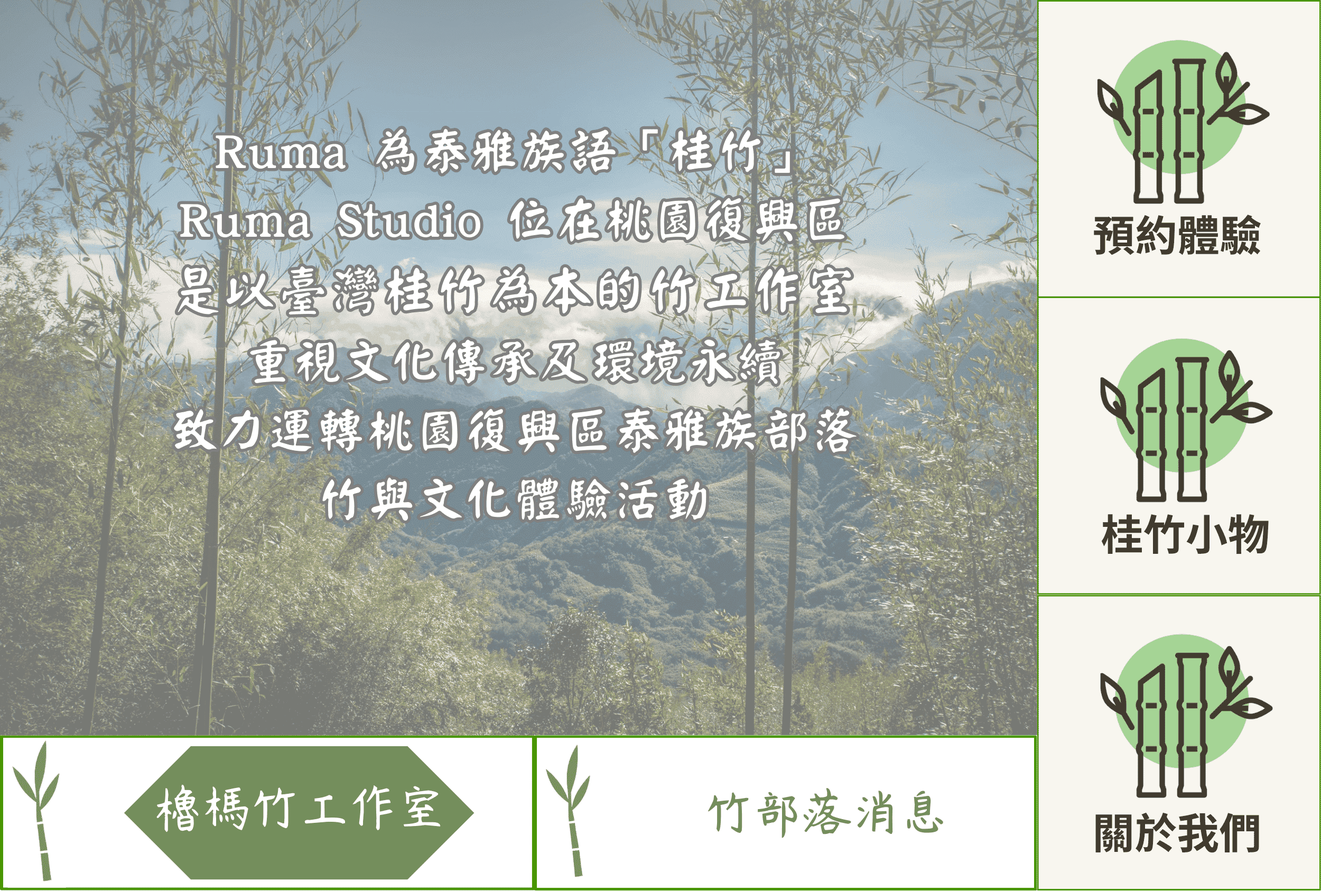
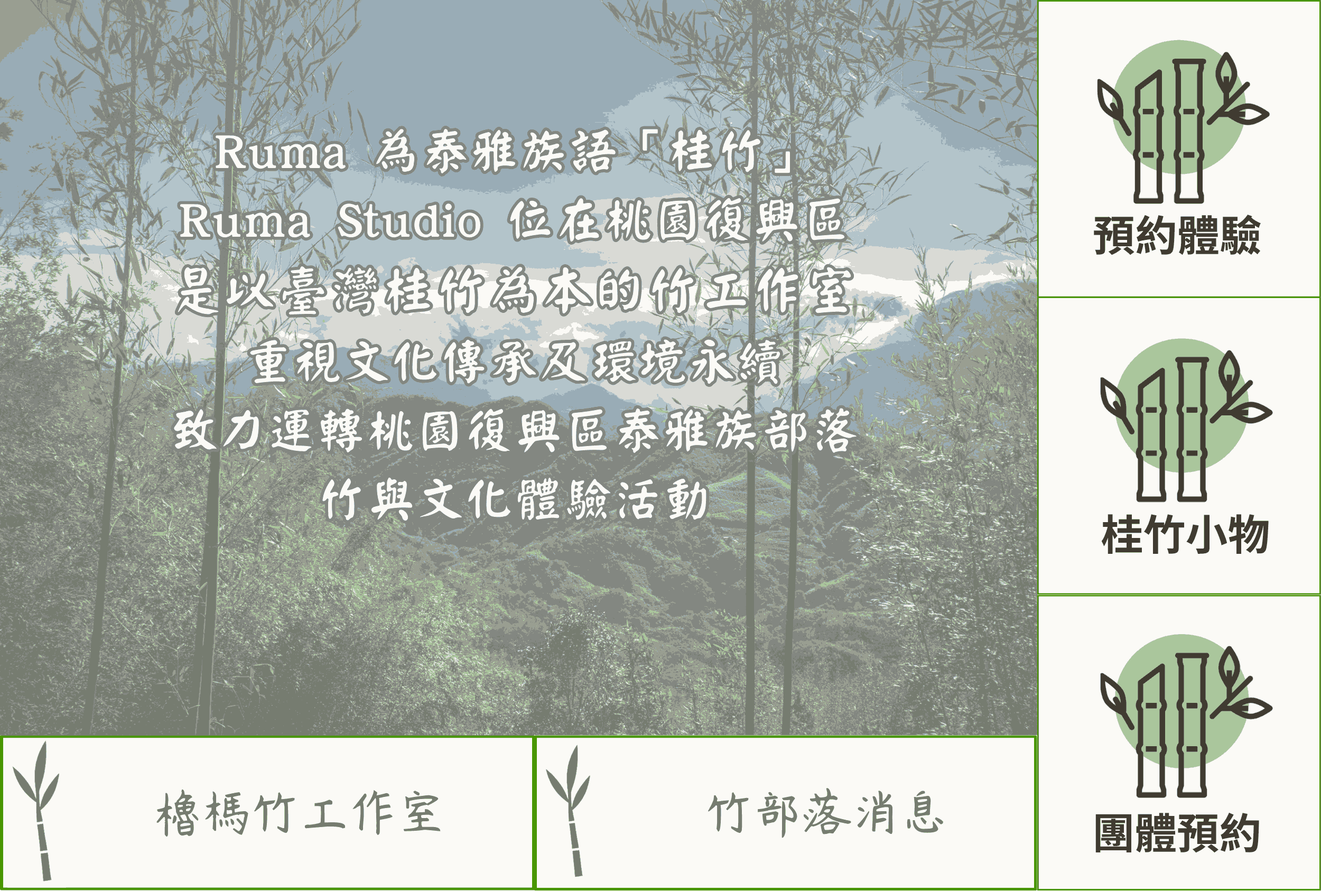
定位五個按鈕

diff --git a/scripts/richmenu/ruma/layout.js b/scripts/richmenu/ruma/layout.js
@@ -5,79 +5,80 @@ module.exports = function () {
   const TENANT = 'ruma';
   const BASE   = `public/richmenu/${TENANT}`;
 
-  // 固定規格
-  const TAB_W = 952;     // 左/中兩塊 tab 寬
-  const TAB_H = 294;     // 底部高度
-  const BTN_W = 537;     // 最右側按鈕欄寬
-  const SP    = 32;      // 右邊留白
-  const SAFE_GAP = 4;    // ← 新增：中間區與按鈕欄之間留縫避免邊界搶點
+  const SP = 32;                 // 上下留白
+  const BTN_W = 537;             // 按鈕寬
+  const RIGHT_X = SIZE.width - SP - BTN_W;
 
-  // 座標（算定值）
-  const rowY      = SIZE.height - SP - TAB_H;              // 1360
-  const btnX      = SIZE.width  - SP - BTN_W;              // 1931（不變）
-  const xRightTab = btnX - SAFE_GAP - TAB_W;               // 979 - SAFE_GAP
-  const xLeftTab  = xRightTab - SAFE_GAP - TAB_W;          // 27 - SAFE_GAP（實際會是 23）
+  const TOTAL_HEIGHT = SIZE.height - SP * 2;  // 可用高度
+  const BTN_H = Math.floor(TOTAL_HEIGHT / 3);
 
-  // 右側三顆（確定數字）
-  const B1 = { x: btnX, y: rowY,        width: BTN_W, height: 87  };
-  const B2 = { x: btnX, y: rowY + 103,  width: BTN_W, height: 87  };
-  const B3 = { x: btnX, y: rowY + 206,  width: BTN_W, height: 88  };
+  const B1 = { x: RIGHT_X, y: SP,           width: BTN_W, height: BTN_H };
+  const B2 = { x: RIGHT_X, y: SP + BTN_H,   width: BTN_W, height: BTN_H };
+  const B3 = { x: RIGHT_X, y: SP + BTN_H*2, width: BTN_W, height: TOTAL_HEIGHT - BTN_H*2 };
+
+   // 左上方按鈕，水平排列，高度 = B3.height / 2
+  const leftWidth = RIGHT_X - SP;
+  const leftHeight = Math.floor(B3.height / 2);
+  const B4 = { x: SP, y: B3.y + B3.height - leftHeight, width: Math.floor(leftWidth / 2), height: leftHeight };
+  const B5 = { x: SP + Math.floor(leftWidth / 2), y: B3.y + B3.height - leftHeight, width: Math.ceil(leftWidth / 2), height: leftHeight };
+
 
   // ========== primary（櫓榪工作室）==========
   const primary = () => {
     const areas = [
       // 左下（櫓榪工作室）→ 切到 primary（自頁；可改成 no-op 或直接不放）
-      {
-        bounds: { x: xLeftTab, y: rowY, width: TAB_W, height: TAB_H },
-        action: { type: 'richmenuswitch', richMenuAliasId: 'ruma_primary', data: 'switch=primary' },
-      },
+      // {
+      //   bounds: { x: xLeftTab, y: rowY, width: TAB_W, height: TAB_H },
+      //   action: { type: 'richmenuswitch', richMenuAliasId: 'ruma_primary', data: 'switch=primary' },
+      // },
       // 中下（竹部落消息）→ 切到 second
-      {
-        bounds: { x: xRightTab, y: rowY, width: TAB_W, height: TAB_H },
-        action: { type: 'richmenuswitch', richMenuAliasId: 'ruma_second', data: 'switch=second' },
-      },
+      // {
+      //   bounds: { x: xRightTab, y: rowY, width: TAB_W, height: TAB_H },
+      //   action: { type: 'richmenuswitch', richMenuAliasId: 'ruma_second', data: 'switch=second' },
+      // },
       // 右側三顆
       // { bounds: B1, action: { type: 'postback', data: 'action=booking', displayText: '預約體驗' } },
       // { bounds: B2, action: { type: 'postback', data: 'action=shop',    displayText: '桂竹小物' } },
       // { bounds: B3, action: { type: 'postback', data: 'action=about',   displayText: '關於我們' } },
       // 測試
-      { bounds: B1, action: { type: 'message', text: '我要預約體驗' } },
+      { bounds: B1, action: { type: 'message', text: '預約體驗' } },
       { bounds: B2, action: { type: 'message', text: '我要看桂竹小物' } },
-      { bounds: B3, action: { type: 'message', text: '關於我們' } },
-
+      { bounds: B3, action: { type: 'message', text: '團體預約' } },
+      { bounds: B4, action: { type: 'message', text: '櫓榪工作室' } },
+      { bounds: B5, action: { type: 'message', text: '竹部落' } },
     ];
     const errs = validateAreas(areas); if (errs.length) throw new Error(errs.join('; '));
     return areas;
   };
 
   // ========== second（竹部落）==========
-  const second = () => {
-    const areas = [
-      // 左下（櫓榪工作室）→ 切到 primary
-      {
-        bounds: { x: xLeftTab, y: rowY, width: TAB_W, height: TAB_H },
-        action: { type: 'richmenuswitch', richMenuAliasId: 'ruma_primary', data: 'switch=primary' },
-      },
-      // 中下（竹部落消息）→ 切到 second（自頁；可改成 no-op）
-      {
-        bounds: { x: xRightTab, y: rowY, width: TAB_W, height: TAB_H },
-        action: { type: 'richmenuswitch', richMenuAliasId: 'ruma_second', data: 'switch=second' },
-      },
-      // 右側三顆
-      // { bounds: B1, action: { type: 'uri', uri: 'https://www.facebook.com/...' } },
-      // { bounds: B2, action: { type: 'uri', uri: 'https://www.instagram.com/...' } },
-      // { bounds: B3, action: { type: 'postback', data: 'action=atayal_bamboo', displayText: '泰雅與竹' } },
-      { bounds: B1, action: { type: 'message', text: '測試按鈕一' } },
-      { bounds: B2, action: { type: 'message', text: '測試按鈕二' } },
-      { bounds: B3, action: { type: 'message', text: '測試按鈕三' } },
-    ];
-    const errs = validateAreas(areas); if (errs.length) throw new Error(errs.join('; '));
-    return areas;
-  };
+  // const second = () => {
+  //   const areas = [
+  //     // 左下（櫓榪工作室）→ 切到 primary
+  //     {
+  //       bounds: { x: xLeftTab, y: rowY, width: TAB_W, height: TAB_H },
+  //       action: { type: 'richmenuswitch', richMenuAliasId: 'ruma_primary', data: 'switch=primary' },
+  //     },
+  //     // 中下（竹部落消息）→ 切到 second（自頁；可改成 no-op）
+  //     {
+  //       bounds: { x: xRightTab, y: rowY, width: TAB_W, height: TAB_H },
+  //       action: { type: 'richmenuswitch', richMenuAliasId: 'ruma_second', data: 'switch=second' },
+  //     },
+  //     // 右側三顆
+  //     // { bounds: B1, action: { type: 'uri', uri: 'https://www.facebook.com/...' } },
+  //     // { bounds: B2, action: { type: 'uri', uri: 'https://www.instagram.com/...' } },
+  //     // { bounds: B3, action: { type: 'postback', data: 'action=atayal_bamboo', displayText: '泰雅與竹' } },
+  //     { bounds: B1, action: { type: 'message', text: '測試按鈕一' } },
+  //     { bounds: B2, action: { type: 'message', text: '測試按鈕二' } },
+  //     { bounds: B3, action: { type: 'message', text: '測試按鈕三' } },
+  //   ];
+  //   const errs = validateAreas(areas); if (errs.length) throw new Error(errs.join('; '));
+  //   return areas;
+  // };
 
   // 這裡 alias 用短字，deploy 會變成 ruma_primary / ruma_second
   return [
     { alias: 'primary', name: '櫓榪工作室', image: `${BASE}/primary.v1.png`, areas: primary },
-    { alias: 'second',  name: '竹部落',     image: `${BASE}/second.v1.png`,  areas: second  },
+    // { alias: 'second',  name: '竹部落',     image: `${BASE}/second.v1.png`,  areas: second  },
   ];
 };
